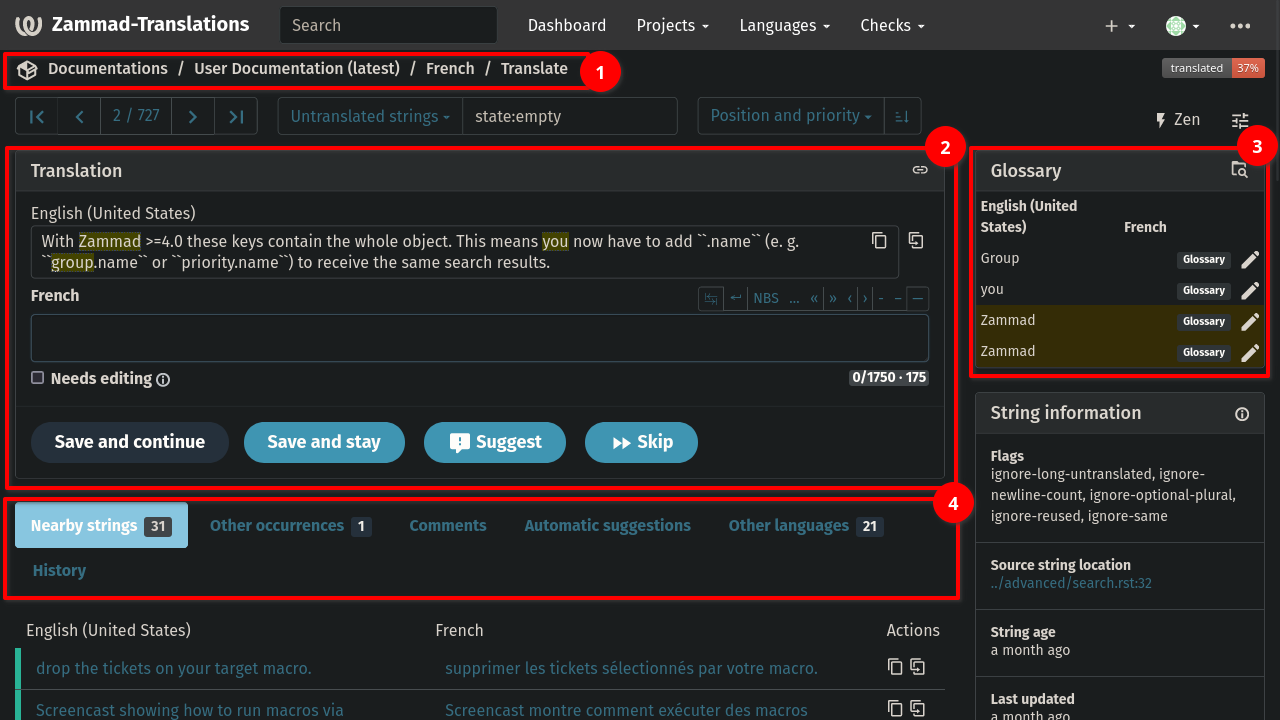
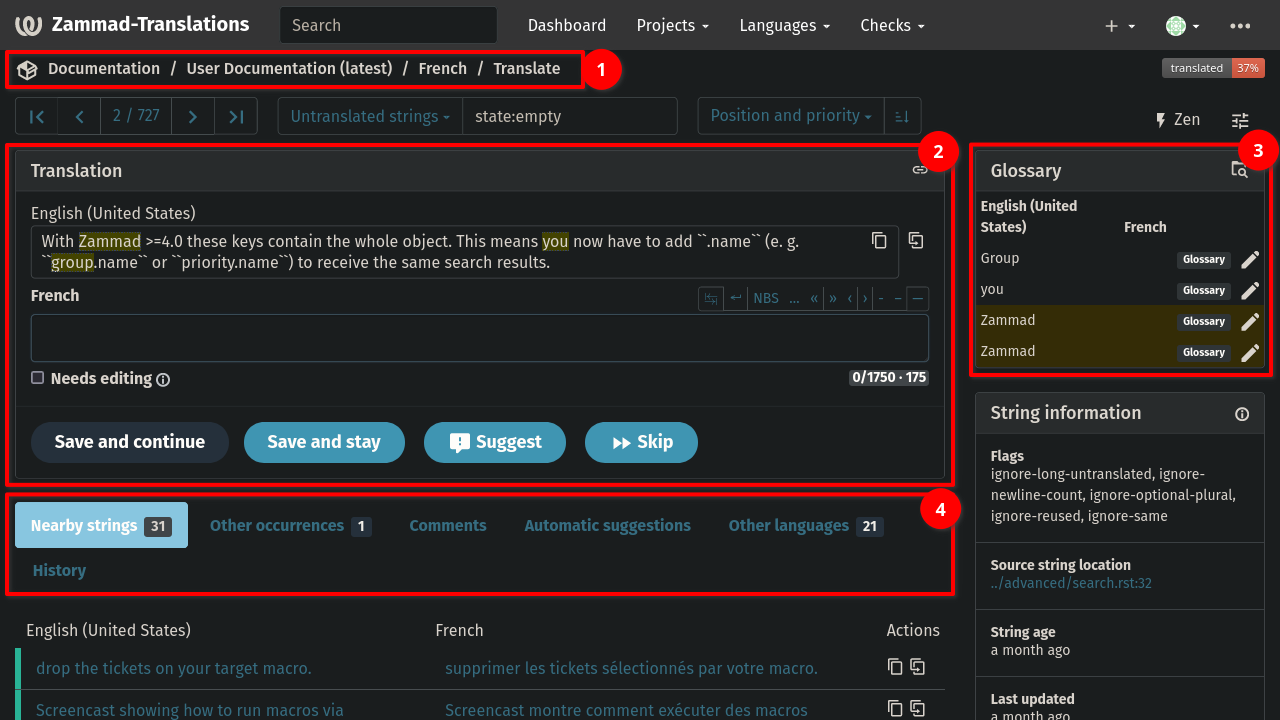
Replaced screenshots, changed documentations to documentation

Changed region(s): [[0.0, 0.1528, 1.0, 0.8556], [0.0, 0.0611, 0.5, 0.1222]]

diff --git a/contributing/start.rst b/contributing/start.rst
@@ -135,7 +135,7 @@ projects:
 
 Structure of translation projects in Weblate:
 
- * Documentations
+ * Documentation
     * User Documentation (latest)
     * User Documentation (pre-release)
     * Admin Documentation (latest)
@@ -153,7 +153,7 @@ Structure of translation projects in Weblate:
   **Zammad**). When Weblate detects the same strings in different versions,
   they will be used for all versions and only have to be translated once.
 
-After selecting a project (Documentations or Zammad), you will see different
+After selecting a project (Documentation or Zammad), you will see different
 sub-projects and their translation status summarized for all languages.
 These overviews may show a quite low translation rate, which is due to the
 amount of acive languages.
@@ -161,7 +161,7 @@ amount of acive languages.
 Here you can select one of the "components", which is more or less the same as
 different versions. After selecting one of them, you can see the status of
 translation for the different languages, as you can see in the
-following screenshot with an example from *Documentations > User
+following screenshot with an example from *Documentation > User
 Documentation (latest)*:
 
 .. figure:: /images/contributing/weblate-translations-user-docs.png
